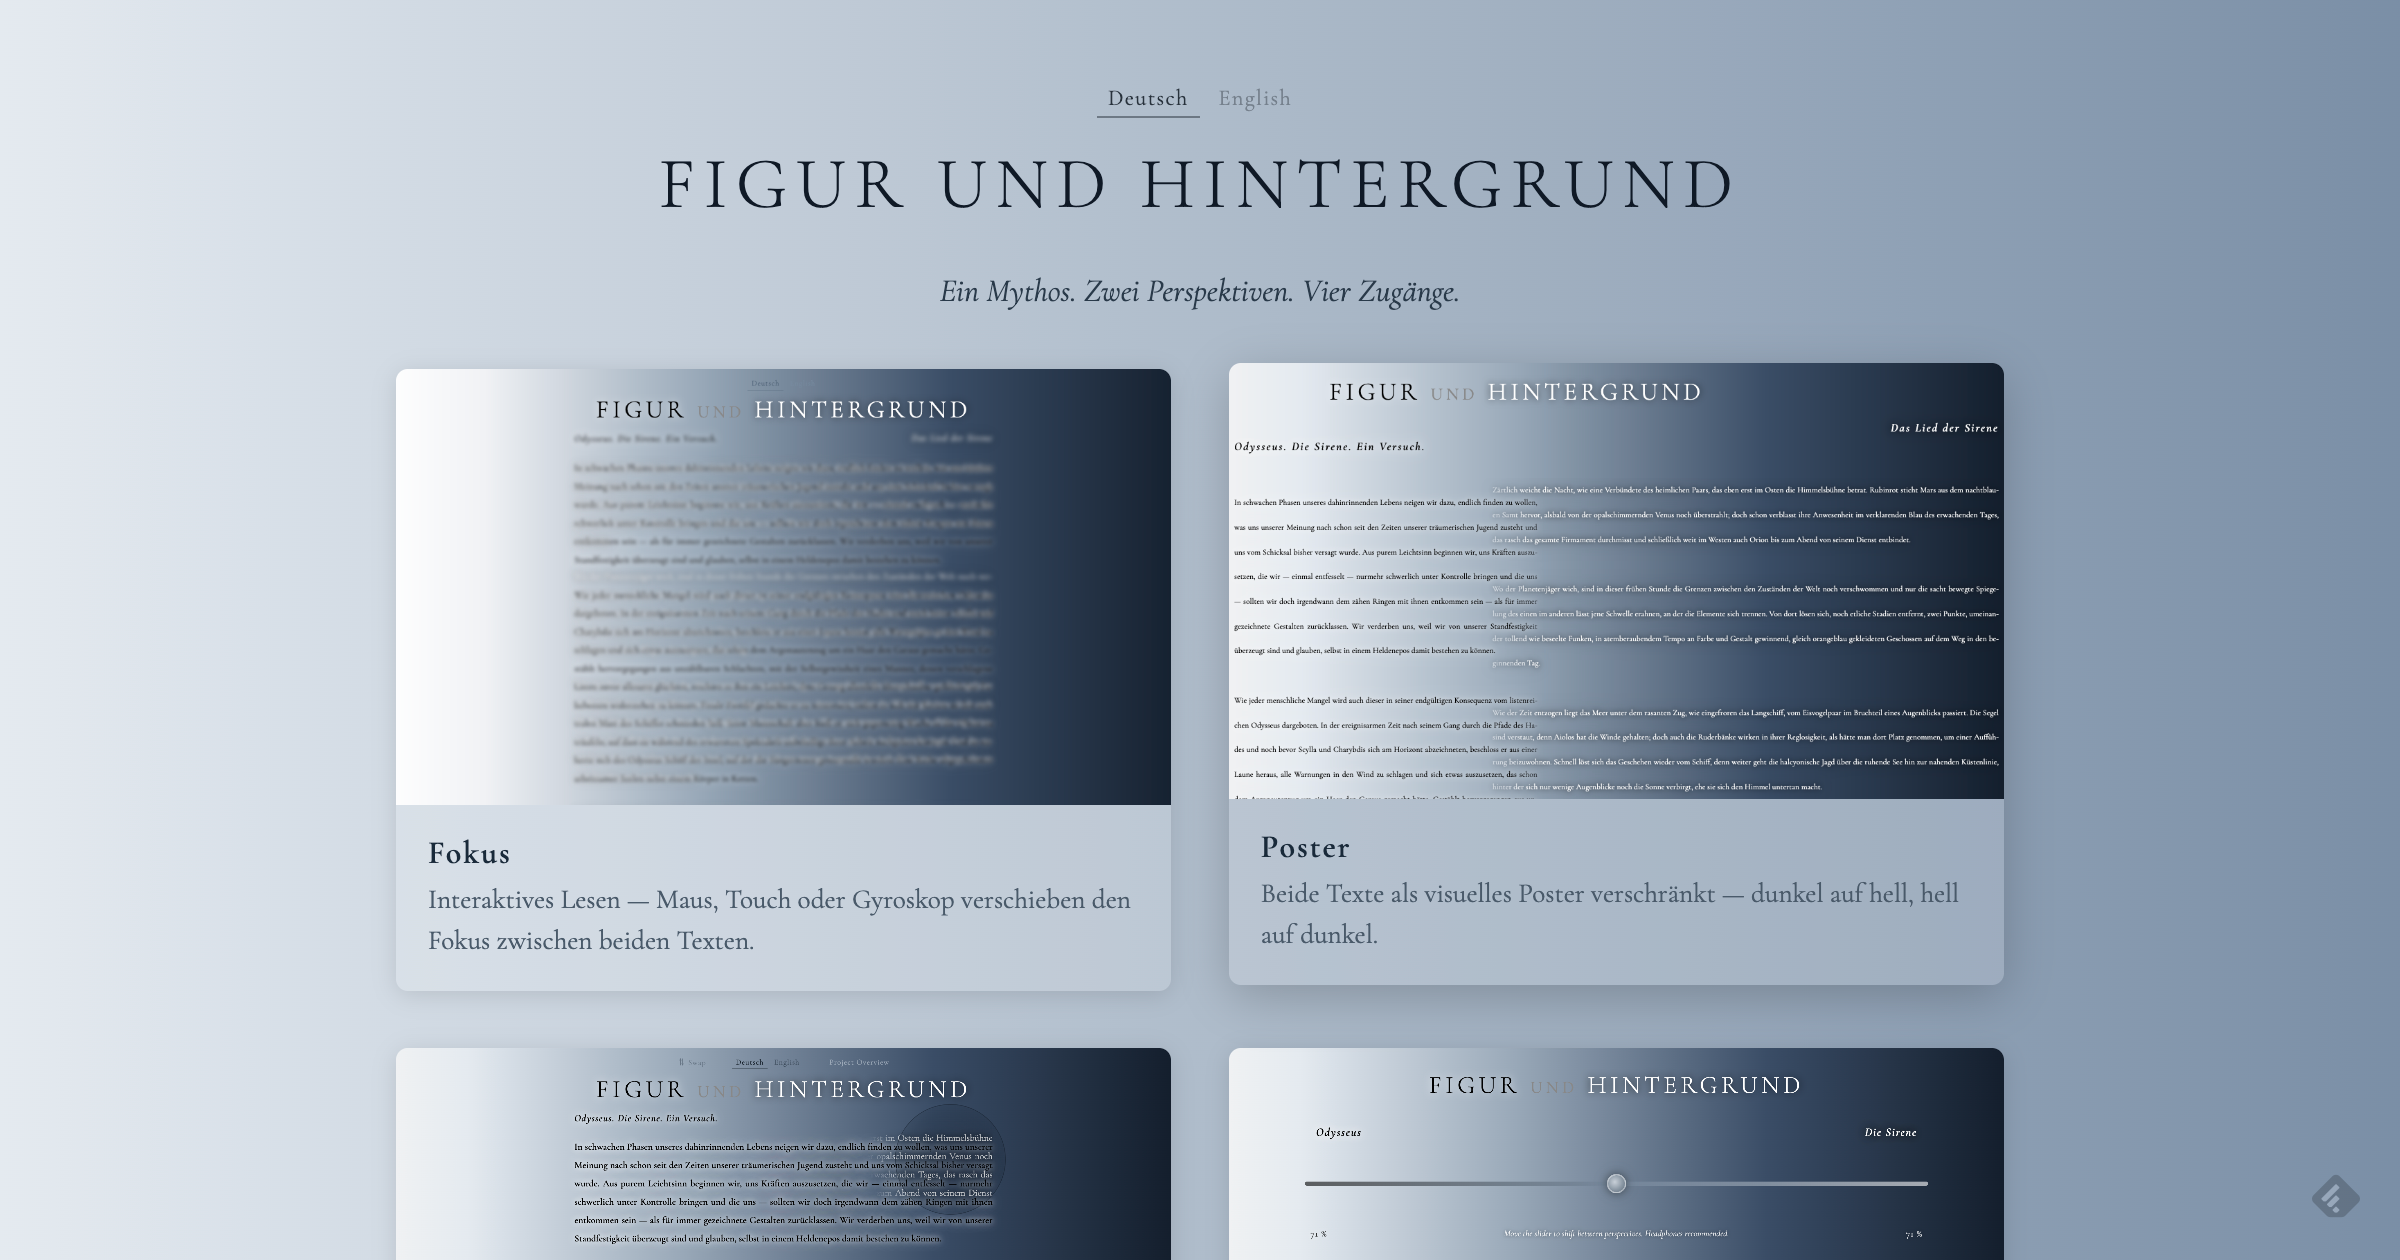
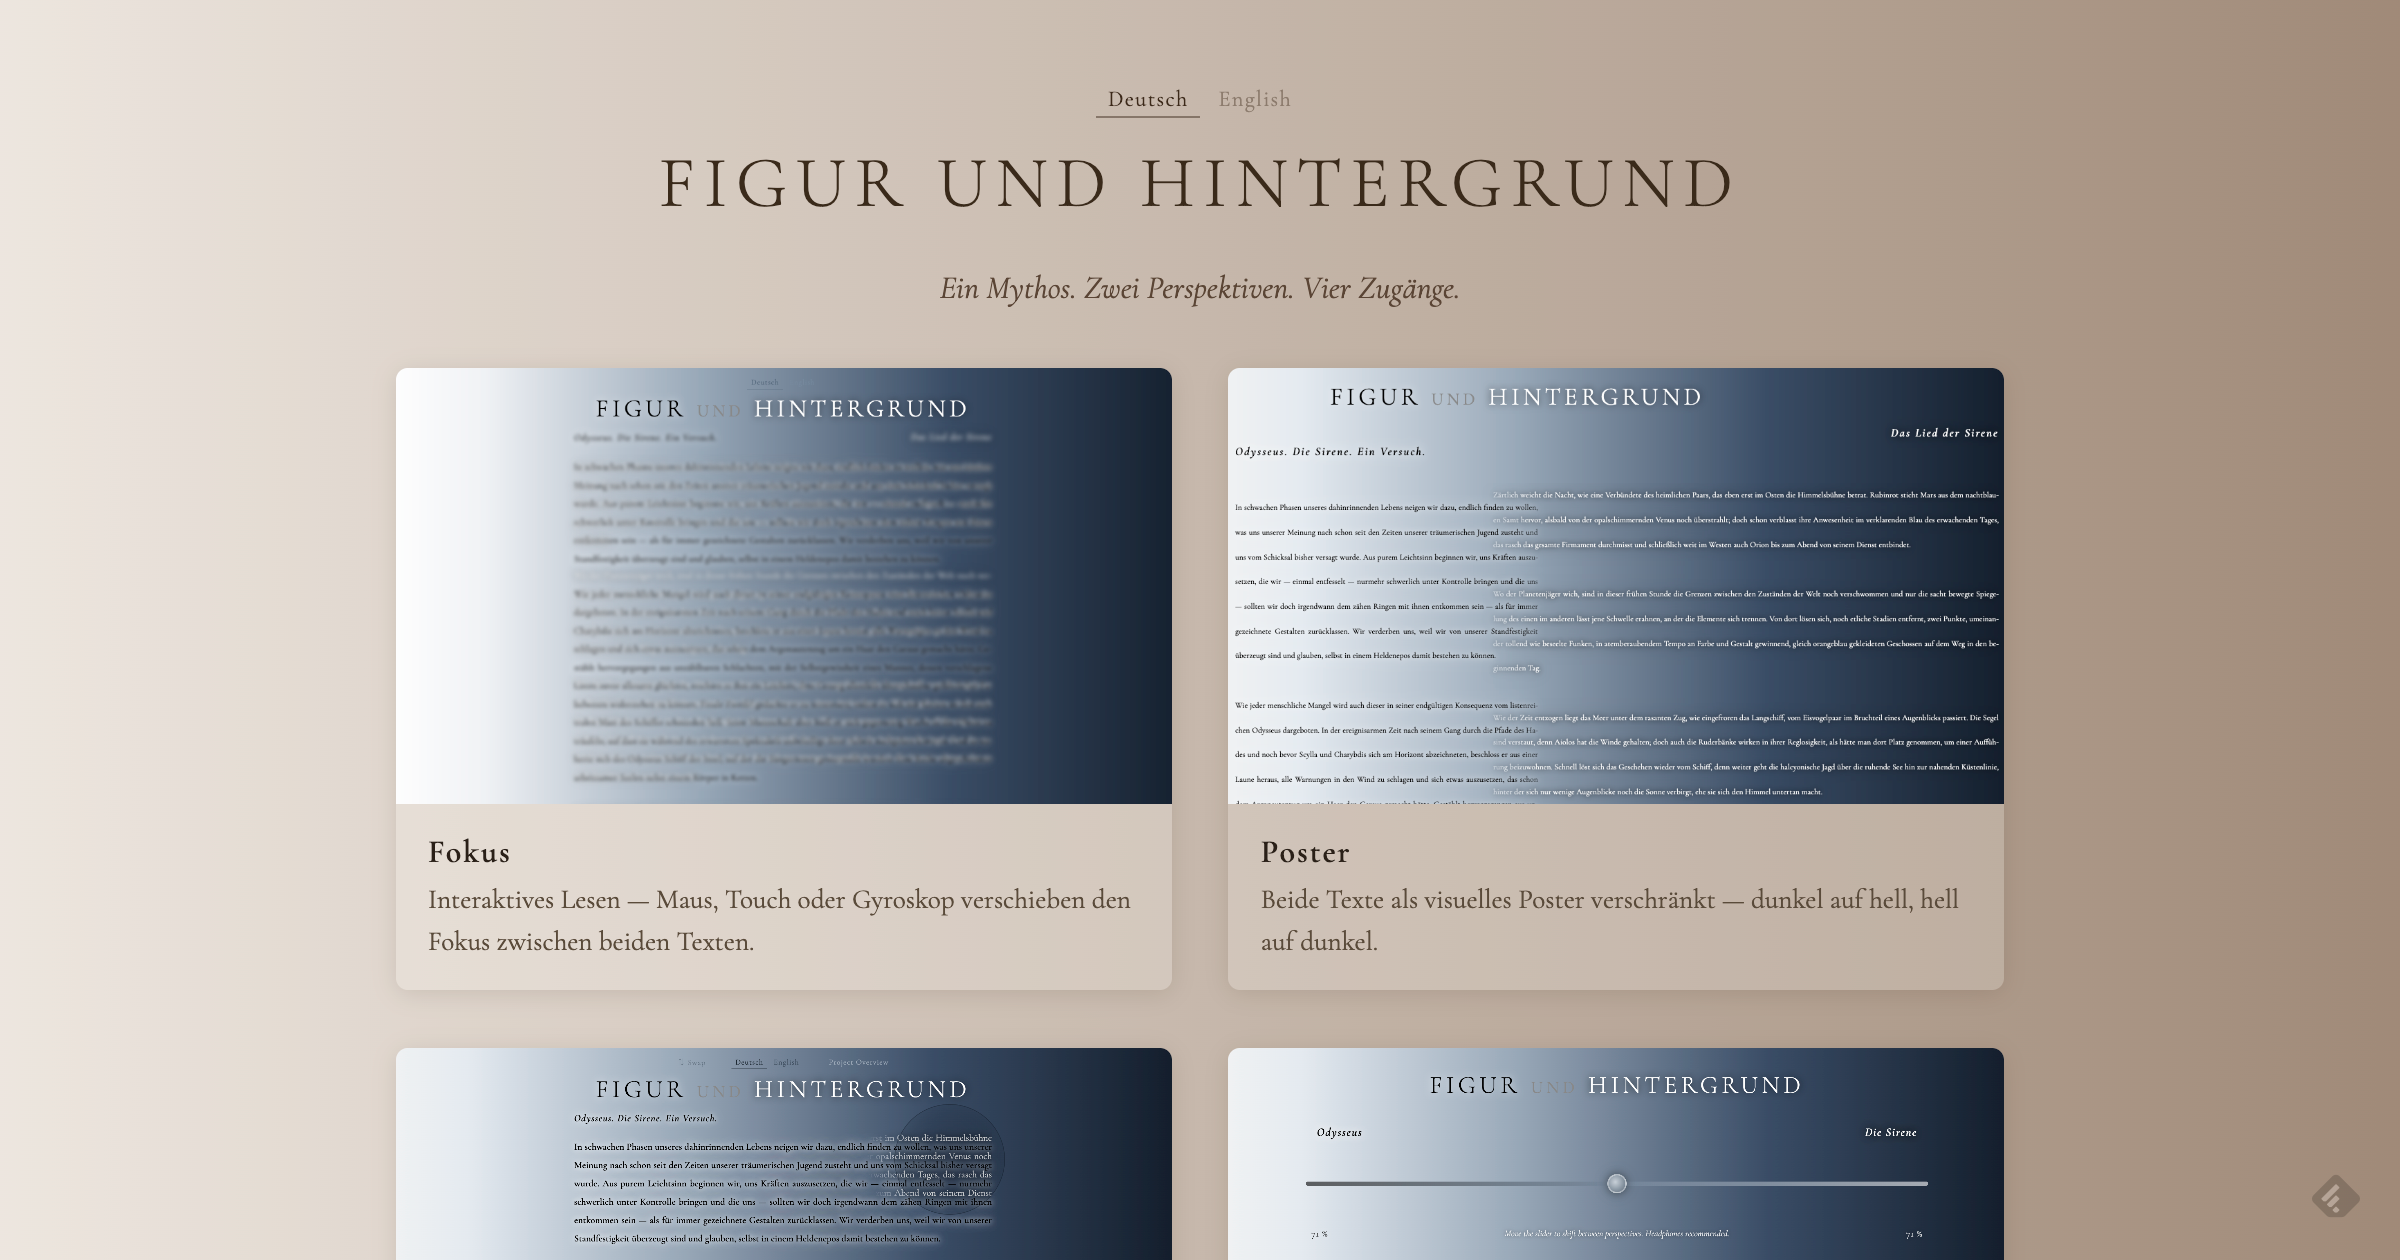
landing page colors

diff --git a/figround/index.html b/figround/index.html
@@ -14,8 +14,8 @@
 <link rel="stylesheet" href="figround.css">
 <style>
   body {
-    background: linear-gradient(to right, #e4eaf0 0%, #7a8fa6 100%);
-    color: #1a2a3a;
+    background: linear-gradient(to right, #ede6df 0%, #a08a78 100%);
+    color: #2a2018;
     min-height: 100vh;
   }
 
@@ -35,19 +35,19 @@
     font-size: 0.7rem;
     letter-spacing: 0.06em;
     text-decoration: none;
-    color: rgba(80,90,100,0.6);
+    color: rgba(90,70,55,0.55);
     cursor: pointer;
     padding: 0.2em 0.5em;
     transition: color 0.2s;
   }
 
   .lang-switch a:hover {
-    color: rgba(40,50,60,1);
+    color: rgba(60,40,25,1);
   }
 
   .lang-switch a.active {
-    color: rgba(40,50,60,1);
-    border-bottom: 1px solid rgba(40,50,60,0.5);
+    color: rgba(60,40,25,1);
+    border-bottom: 1px solid rgba(60,40,25,0.5);
   }
 
   /* ── HEADER ── */
@@ -61,14 +61,14 @@
     font-size: clamp(1.6rem, 3vw, 2.6rem);
     letter-spacing: 0.12em;
     text-transform: uppercase;
-    color: #0f1926;
+    color: #3a2a1a;
     margin-bottom: 0.5em;
   }
 
   .tagline {
     font-size: clamp(1rem, 1.3vw, 1.15rem);
     line-height: 1.7;
-    color: #2a3a4a;
+    color: #5a4535;
     font-style: italic;
   }
 
@@ -87,13 +87,13 @@
     border-radius: 6px;
     overflow: hidden;
     transition: transform 0.2s ease, box-shadow 0.2s ease;
-    box-shadow: 0 2px 12px rgba(0,0,0,0.12);
-    background: rgba(255,255,255,0.15);
+    box-shadow: 0 2px 12px rgba(60,40,20,0.15);
+    background: rgba(255,252,248,0.2);
   }
 
   .tile:hover {
     transform: translateY(-3px);
-    box-shadow: 0 6px 24px rgba(0,0,0,0.2);
+    box-shadow: 0 6px 24px rgba(60,40,20,0.25);
   }
 
   .tile-img {
@@ -116,7 +116,7 @@
 
   .tile-desc {
     font-size: clamp(0.85rem, 1vw, 0.95rem);
-    color: #4a5a6a;
+    color: #5a4a3a;
     line-height: 1.5;
   }
 
@@ -124,20 +124,20 @@
   .footer-links {
     text-align: center;
     padding: 2vh 0 0 0;
-    border-top: 1px solid rgba(15,25,38,0.1);
+    border-top: 1px solid rgba(60,40,20,0.12);
   }
 
   .footer-links a {
     font-size: clamp(0.9rem, 1.1vw, 1rem);
-    color: #2a3a4a;
+    color: #4a3a2a;
     text-decoration: none;
-    border-bottom: 1px solid rgba(15,25,38,0.2);
+    border-bottom: 1px solid rgba(60,40,20,0.2);
     transition: border-color 0.2s;
     margin: 0 1em;
   }
 
   .footer-links a:hover {
-    border-color: rgba(15,25,38,0.6);
+    border-color: rgba(60,40,20,0.6);
   }
 
   .footer-links .footer-row {
@@ -148,13 +148,13 @@
     display: block;
     margin-top: 1em;
     font-size: 0.8rem;
-    color: #6a7a8a;
+    color: #8a7a6a;
   }
 
   .footer-links .license a {
     font-size: 0.8rem;
-    color: #6a7a8a;
-    border-bottom-color: rgba(100,120,140,0.25);
+    color: #8a7a6a;
+    border-bottom-color: rgba(100,80,60,0.25);
   }
 
   /* ── MOBILE ── */
